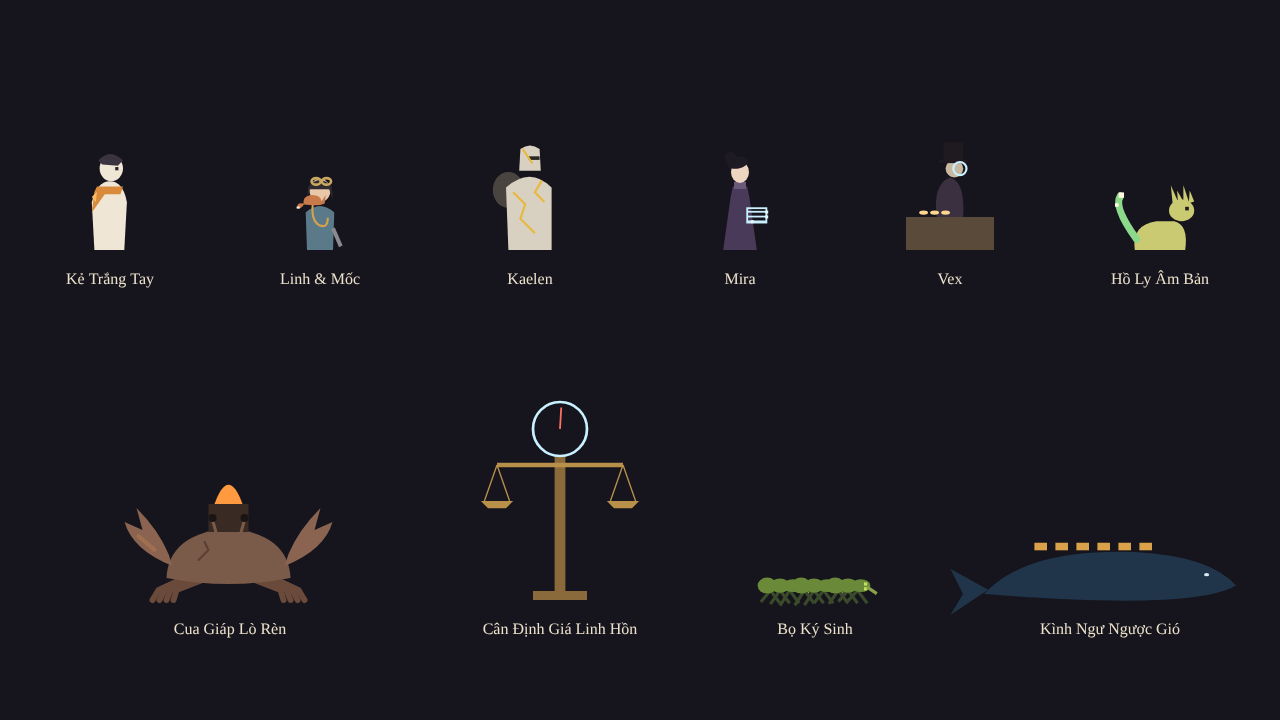
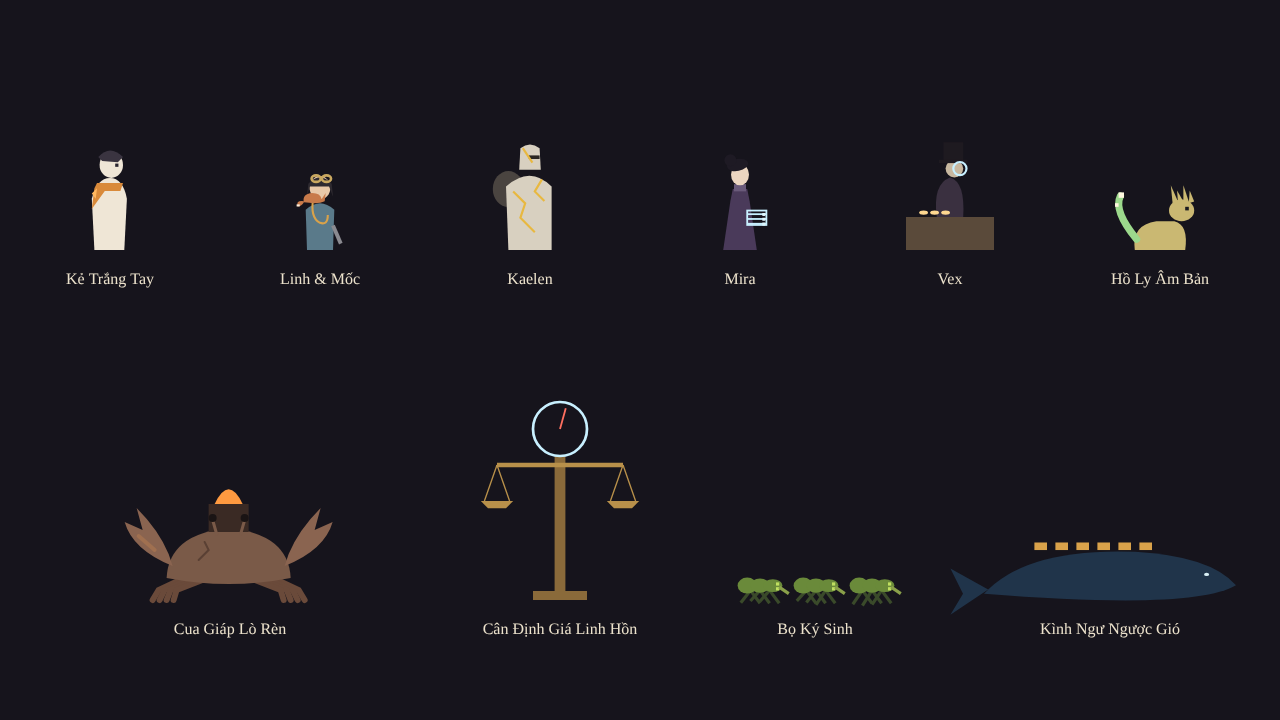
iteration 2: added đường ống sprite Aseprite
Đặc tả sprite đợt 1, bảng màu trong.gpl, pixelmap.lua (bản vẽ chữ → .aseprite), export.ps1 (PNG/JSON → sprites.js), bộ nạp sprite trong game với dự phòng vẽ bằng code, prompt cho Claude Code trên máy MSI.

Brief: design/game-brief.md

Claude-Session: https://claude.ai/code/session_016dqgZy18oADqWdvzqymVbA

diff --git a/prototypes/trong/index.html b/prototypes/trong/index.html
@@ -17,6 +17,7 @@
 <canvas id="game"></canvas>
 <script src="config.js"></script>
 <script src="story.js"></script>
+<script src="assets/sprites/sprites.js"></script>
 <script>
 'use strict';
 // Trong · Hồi 1 · Kẻ Trắng Tay. Đọc HANDOVER_STORY_V2.md: mọi chữ và bản đồ ở story.js,
@@ -83,6 +84,38 @@ function panel(x, y, w, h, a = 0.86) {
   ctx.fillStyle = `rgba(14,12,20,${a})`; ctx.fillRect(x, y, w, h);
   ctx.strokeStyle = 'rgba(240,226,192,0.35)'; ctx.lineWidth = 1.5; ctx.strokeRect(x, y, w, h);
 }
+
+// ---- Sprite vẽ bằng Aseprite -----------------------------------------------------------
+// assets/sprites/sprites.js (sinh bởi art/export.ps1) khai báo window.SPRITES[id] = JSON của
+// Aseprite; ảnh là assets/sprites/<id>.png. Có sprite thì vẽ sprite (pixel, phóng sprite_scale,
+// neo giữa đáy, quay phải); chưa có thì các hàm draw* bên dưới vẽ bằng code như cũ.
+const SPR = {};
+for (const id in (window.SPRITES || {})) {
+  const img = new Image();
+  img.onerror = () => console.warn('Không đọc được sprite', id);
+  img.src = `assets/sprites/${id}.png`;
+  SPR[id] = { img, data: window.SPRITES[id] };
+}
+function sprReady(id) { const s = SPR[id]; return !!s && s.img.complete && s.img.naturalWidth > 0 && !!s.data && Array.isArray(s.data.frames); }
+function sprFrame(id, tag, t) {
+  const frames = SPR[id].data.frames, tags = (SPR[id].data.meta && SPR[id].data.meta.frameTags) || [];
+  const tg = tags.find(x => x.name === tag) || tags.find(x => x.name === 'idle') || tags[0] || { from: 0, to: frames.length - 1 };
+  let total = 0;
+  for (let i = tg.from; i <= tg.to; i++) total += frames[i].duration || 100;
+  let ms = ((t * 1000) % total + total) % total;
+  for (let i = tg.from; i <= tg.to; i++) { ms -= frames[i].duration || 100; if (ms < 0) return frames[i]; }
+  return frames[tg.to];
+}
+function drawSprite(id, tag, t, x, y, facing = 1, extra = 1) {
+  if (!sprReady(id)) return false;
+  const s = tune.sprite_scale * Math.max(1, Math.round(extra)), fr = sprFrame(id, tag, t).frame; // chỉ phóng nguyên lần: điểm ảnh luôn vuông
+  ctx.save(); ctx.imageSmoothingEnabled = false;
+  ctx.translate(Math.round(x / s) * s, Math.round(y / s) * s); ctx.scale(facing < 0 ? -1 : 1, 1);
+  ctx.drawImage(SPR[id].img, fr.x, fr.y, fr.w, fr.h, -Math.round(fr.w / 2) * s, -fr.h * s, fr.w * s, fr.h * s);
+  ctx.restore();
+  return true;
+}
+function bodyTag() { return state && state.moving ? 'walk' : 'idle'; }
 
 // ---- Input ------------------------------------------------------------------------------
 const down = new Set(), hit = new Set();
@@ -391,6 +424,7 @@ function fieldStep(dt) {
   let v = 0;
   if (down.has('ArrowLeft') || down.has('KeyA')) v -= tune.walk_speed;
   if (down.has('ArrowRight') || down.has('KeyD')) v += tune.walk_speed;
+  state.moving = !!v && state.x > 60 && state.x < maxX();
   if (v) {
     state.facing = v > 0 ? 1 : -1;
     state.x = clamp(state.x + v * dt, 60, maxX());
@@ -798,6 +832,7 @@ function drawWhaleSign(x, y) { ctx.strokeStyle = '#c9a860'; ctx.lineWidth = 3; c
 
 // ---- Nhân vật: mỗi người một dáng riêng, không emoji, không hình tròn trơn ----
 function drawHero(x, y, s, f, t) { // Kẻ Trắng Tay: áo khoác bạc màu, mảnh hổ phách bám vai, khăn quàng
+  if (drawSprite('hero', bodyTag(), state.t, x, y, f, s)) return;
   ctx.save(); ctx.translate(x, y); ctx.scale(f * s, s);
   const bob = Math.sin(t * 9) * 1.5;
   glow('#fff0d8', 18); ctx.fillStyle = '#efe6d6';
@@ -819,6 +854,7 @@ function drawMoc(x, y, s, f, t) { // Mốc: cáo nhỏ của Linh, cuộn tròn 
   ctx.restore();
 }
 function drawLinh(x, y, s, f, t) { // Linh: thấp, kính bảo hộ trên trán, ống nghe đồng, cờ-lê, Mốc trên vai
+  if (drawSprite('linh', bodyTag(), state.t + 0.3, x, y, f, s)) return; // sprite đã vẽ Mốc trên vai
   ctx.save(); ctx.translate(x, y); ctx.scale(f * s, s);
   const bob = Math.sin(t * 9 + 1) * 1.3;
   ctx.fillStyle = '#5a7a8a'; // áo thợ
@@ -834,6 +870,7 @@ function drawLinh(x, y, s, f, t) { // Linh: thấp, kính bảo hộ trên trán
   drawMoc(x - 6 * f * s, y - 36 * s + Math.sin(t * 9 + 1) * 1.3, 0.8 * s, f, t);
 }
 function drawKael(x, y, s, f, t) { // Kaelen: to lớn, giáp gốm vết nứt hàn vàng, nồi súp trên lưng
+  if (drawSprite('kael', bodyTag(), state.t + 0.6, x, y, f, s)) return;
   ctx.save(); ctx.translate(x, y); ctx.scale(f * s, s);
   const bob = Math.sin(t * 7 + 2) * 1;
   ctx.fillStyle = '#4a4440'; ctx.beginPath(); ctx.ellipse(-18, -50 + bob, 13, 15, 0, 0, Math.PI * 2); ctx.fill(); // nồi trên lưng
@@ -848,6 +885,7 @@ function drawKael(x, y, s, f, t) { // Kaelen: to lớn, giáp gốm vết nứt 
   ctx.restore();
 }
 function drawMira(x, y, s, f, t) { // Mira: cao, áo dài cổ cao, búi tóc, bàn tính pha lê
+  if (drawSprite('mira', bodyTag(), state.t + 0.9, x, y, f, s)) return;
   ctx.save(); ctx.translate(x, y); ctx.scale(f * s, s);
   const bob = Math.sin(t * 9 + 3) * 1.2;
   ctx.fillStyle = '#4a3a5a';
@@ -963,6 +1001,7 @@ function drawParty(cam) {
 // ---- Gương mặt hội thoại ----
 const FACE = { me: '#efe6d6', linh: '#e8c8a8', kael: '#d8d0c0', mira: '#ecd6c0', vex: '#c8b8a0', fox: '#b8a0d0', crab: '#7a5a48', scale: '#b8904a', bug: '#6a8a3a' };
 function drawFace(who, f, x, y, r) {
+  if (drawSprite(who + '_face', f === 'speak' ? 'neutral' : f, 0, x, y + 48, 1)) return true; // chân dung 48×48, phóng ×2
   if (!FACE[who]) return false;
   ctx.save(); ctx.translate(x, y);
   glow(FACE[who], who === 'me' ? 14 : 6); ctx.fillStyle = FACE[who];
@@ -1222,6 +1261,7 @@ const scenes = {
       state.cold += (state.coldTarget - state.cold) * Math.min(1, dt);
       if (state.doublePulse) { const p = (state.t * tune.heartbeat_bpm / 60) % 1, pp = ((state.t - dt) * tune.heartbeat_bpm / 60) % 1; if (p < pp && state.mode === 'field') sfx.beat(); }
       walklineStep(dt);
+      if (state.mode !== 'field') state.moving = false;
       if (state.mode === 'field') fieldStep(dt);
       else if (state.mode === 'dialog') dialogStep(dt);
       else if (state.mode === 'fight') fightStep(dt);

diff --git a/prototypes/trong/config.js b/prototypes/trong/config.js
@@ -75,4 +75,5 @@ window.CONFIG = {
   line_time: { value: 5, min: 2, max: 10, step: 0.5 },             // giây: dòng chữ khi đi
   text_speed: { value: 42, min: 12, max: 120, step: 2 },           // chữ/giây
   heartbeat_bpm: { value: 54, min: 30, max: 100, step: 1 },        // nhịp Lõi Nhịp Tim
+  sprite_scale: { value: 2, min: 1, max: 4, step: 1 },             // điểm ảnh Aseprite → màn hình (640×360 ×2)
 };

diff --git a/prototypes/trong/assets/sprites/sprites.js b/prototypes/trong/assets/sprites/sprites.js
@@ -1,0 +1,3 @@
+// PROTOTYPE - NOT FOR PRODUCTION
+// Sinh tu dong boi art/export.ps1 tu assets/sprites/*.aseprite. Chua co sprite nao: game ve bang code.
+window.SPRITES = window.SPRITES || {};

diff --git a/prototypes/trong/art/SPRITE_SPEC.md b/prototypes/trong/art/SPRITE_SPEC.md
@@ -1,0 +1,64 @@
+# Đặc tả sprite: Trong · Hồi 1 · Đợt 1 (4 nhân vật chính)
+
+> PROTOTYPE - NOT FOR PRODUCTION. Nguồn: `prototypes/trong/brief.md` (Look), `HANDOVER_STORY_V2.md` (nhân vật).
+
+## 1. Khung chung
+
+| Mục | Quy định |
+|---|---|
+| Độ phân giải nghệ thuật | **640×360**, game phóng **×2** lên 1280×720 (`sprite_scale` trong `config.js`) |
+| Một điểm ảnh | luôn là 2×2 trên màn hình; game làm tròn vị trí theo bội 2, không bao giờ nằm lệch nửa điểm |
+| Khử răng cưa | **Không.** Không dùng màu trung gian để làm mềm cạnh |
+| Bảng màu | chỉ dùng `art/trong.gpl` (27 màu). Thiếu màu thì đề xuất thêm vào bảng, không tự pha |
+| Viền | viền 1 điểm ảnh màu `k` ở mép ngoài; mép phía có ánh sáng có thể thay viền bằng màu bóng (sel-out) |
+| Ánh sáng | từ **trên xuống, hơi chếch trước mặt**: Lõi Nhịp Tim treo giữa trời. Đổ bóng 2 tông: sáng, bóng; tối nhất là `K` |
+| Hướng | vẽ **quay mặt sang phải**. Game tự lật khi đi sang trái |
+| Mốc neo | **chân chạm hàng điểm ảnh cuối cùng**, nhân vật **canh giữa theo chiều ngang**. Game đặt điểm giữa đáy của khung vào vị trí đứng |
+| Độ sáng | Kẻ Trắng Tay là hình **sáng nhất** màn hình (áo `w`); ba người bạn tối hơn một bậc |
+| Cấm | emoji, chữ, logo; bắt chước nhân vật của game khác (Undertale hay bất kỳ game nào) |
+
+## 2. Danh sách sprite đợt 1
+
+| id (tên tệp) | Khung | Tag và số frame | Nhận diện (phải đọc được ở cỡ thật) |
+|---|---|---|---|
+| `hero` | 32×48 | `idle` 4 · `walk` 6 | Kẻ Trắng Tay: dáng mảnh, áo khoác dài bạc màu (`w`/`W`), tóc rối tối (`h`), khăn quàng hổ phách (`o`/`O`) bay sau lưng, một mảnh kén hổ phách (`y`) bám trên vai trái |
+| `linh` | 32×44 | `idle` 4 · `walk` 6 | Linh: thấp, áo thợ xanh xám (`b`/`B`), kính bảo hộ đồng trên trán (`g`), ống nghe đồng vắt cổ (`g`/`G`), cờ-lê thép (`m`) bên hông; **chú cáo Mốc** (`f`/`F`) cuộn trên vai, đuôi buông xuống |
+| `kael` | 48×56 | `idle` 4 · `walk` 6 | Kaelen: to lớn, giáp gốm trắng ngà (`c`/`C`) chằng chịt **vết nứt hàn vàng** (`u`, nét gãy khúc, ít nhất 3 vết), mũ giáp kín có khe mắt, **nồi súp** (`p`) đeo trên lưng |
+| `mira` | 32×52 | `idle` 4 · `walk` 6 | Mira: cao, áo dài cổ cao tím (`v`/`V`), tóc đen búi cao (`n`), **bàn tính pha lê** (`x`) cầm trước người, dáng thẳng, cằm hơi ngẩng |
+| `hero_face` | 48×48 | `neutral` `happy` `sad` `think` `awe` `afraid`, mỗi tag 1 frame | Chân dung hộp thoại, từ vai trở lên, quay ¾ sang phải. Mỗi nét mặt khác nhau ở **mắt và miệng** |
+| `linh_face` | 48×48 | như trên | có kính đồng trên trán; Mốc thò đầu ở vai |
+| `kael_face` | 48×48 | như trên | mũ giáp gốm; nét mặt đọc qua khe mắt và độ nghiêng mũ; vết hàn vàng chạy qua má |
+| `mira_face` | 48×48 | như trên | búi tóc, khuyên tai pha lê |
+
+**Thời lượng:** `idle` 180 ms/frame (thở nhẹ: vai lên xuống 1 điểm ảnh, khăn/đuôi/tóc lay), `walk` 100 ms/frame (chu kỳ 6 bước, đầu nảy 1 điểm ảnh). Chân dung không động.
+
+**Phân biệt bằng dáng, không chỉ bằng màu:** tô đen hết 4 nhân vật thì vẫn phải nhận ra ai là ai (Kaelen to vuông và có nồi; Mira cao thẳng; Linh thấp và có Mốc trên vai; Kẻ Trắng Tay mảnh, khăn bay).
+
+## 3. Cách vẽ (Claude trên máy MSI)
+
+Mỗi sprite là một tệp chữ `art/maps/<id>.txt`; `art/pixelmap.lua` biến nó thành `assets/sprites/<id>.aseprite`, rồi `art/export.ps1` xuất ra PNG, JSON và `sprites.js`. Sau đó người dùng có thể mở `.aseprite` để chỉnh tay; khi đã chỉnh tay thì chạy `export.ps1 -SkipMaps` để không ghi đè.
+
+```text
+# hero.txt: mỗi dòng lưới đúng 32 ký tự, mỗi frame đúng 48 dòng
+@legend k #1a1420
+@legend w #f4ecdc
+...
+@duration idle 180
+@duration walk 100
+@frame idle
+................................
+...(48 dòng)...
+@frame idle
+...
+@frame walk
+...
+```
+
+Khoá màu (`@legend`) lấy đúng ký tự và mã màu ở cột chú thích của `art/trong.gpl`; `.` là trong suốt.
+
+## 4. Kiểm tra trước khi giao
+
+1. `export.ps1` chạy không lỗi; có `assets/sprites/<id>.png`, `<id>.json` và `sprites.js` mới.
+2. Xuất thêm một ảnh xem trước phóng ×4 của mọi frame và **tự nhìn**: viền liền, không điểm lạc, chân không trôi giữa các frame đi, dáng 4 người khác nhau khi tô đen.
+3. Mở `prototypes/trong/index.html?scene=figures`: 4 nhân vật hiện bằng sprite, đứng trên cùng đường đáy với hình vẽ code của sinh vật.
+4. Ghi mỗi tệp vào `assets/provenance.yaml`: `origin: ai`, `tool: "aseprite + art/pixelmap.lua"`, `ships: true`, `placeholder: true` cho đến khi người dùng duyệt nét vẽ.

diff --git a/prototypes/trong/art/PROMPT_MSI.md b/prototypes/trong/art/PROMPT_MSI.md
@@ -1,0 +1,42 @@
+# Prompt cho Claude Code trên máy MSI: vẽ sprite đợt 1 bằng Aseprite
+
+> PROTOTYPE - NOT FOR PRODUCTION. Dán toàn bộ khối dưới đây vào Claude Code mở **trên máy MSI**, trong thư mục repo `Claude-Code-Game-Studios`, sau khi đã `git pull` nhánh `claude/awesome-fermi-b3iszg`.
+
+```text
+Bạn vẽ sprite pixel cho game "Trong" (prototypes/trong) bằng Aseprite cài trên máy này. Trả lời tôi bằng tiếng Việt, gọn.
+
+ĐỌC TRƯỚC (đừng đọc cả repo):
+- prototypes/trong/art/SPRITE_SPEC.md   ← quy định bắt buộc: khung, bảng màu, tag, neo, ánh sáng, cách kiểm tra
+- prototypes/trong/art/trong.gpl        ← 27 màu, cột chú thích là ký tự khoá
+- prototypes/trong/art/pixelmap.lua     ← biến art/maps/<id>.txt thành .aseprite
+- prototypes/trong/art/export.ps1       ← dựng + xuất PNG/JSON + sprites.js
+- prototypes/trong/brief.md, mục "Look and references"
+
+BƯỚC 0 · Kiểm tra máy, DỪNG nếu thiếu:
+- Tìm Aseprite: `aseprite --version`, hoặc C:\Program Files\Aseprite\Aseprite.exe, hoặc ...\Steam\steamapps\common\Aseprite\Aseprite.exe.
+- Không có Aseprite thì DỪNG và báo tôi. KHÔNG tự cài, không tải bản lậu: Aseprite là phần mềm trả phí.
+- Hỏi tôi trước mọi thao tác xoá file hay cài gói.
+
+BƯỚC 1 · Thử đường ống với một sprite nhỏ:
+- Viết art/maps/hero.txt chỉ với 1 frame `idle` để thử, chạy `.\art\export.ps1` trong thư mục prototypes/trong.
+- pixelmap.lua và export.ps1 được viết ở máy cloud KHÔNG có Aseprite, chưa chạy thử lần nào. Nếu lỗi API (newEmptyFrame, newCel, newTag, saveAs, cờ CLI), sửa hai tệp đó cho đúng phiên bản Aseprite trên máy, ghi lại đã sửa gì.
+
+BƯỚC 2 · Vẽ đợt 1 (đúng SPRITE_SPEC.md mục 2):
+- hero, linh, kael, mira: idle 4 frame + walk 6 frame.
+- hero_face, linh_face, kael_face, mira_face: 6 nét mặt (neutral happy sad think awe afraid), 48×48.
+- Vẽ bằng lưới ký tự trong art/maps/<id>.txt. Mỗi dòng lưới phải đúng chiều rộng khung, mỗi frame đúng chiều cao.
+- Làm từng nhân vật một: vẽ, xuất, XEM ảnh, sửa, rồi mới sang người kế.
+
+BƯỚC 3 · Tự nhìn và sửa (bắt buộc, không bỏ qua):
+- Xuất ảnh xem trước phóng ×4 của mọi frame (ví dụ `aseprite -b <id>.aseprite --scale 4 --sheet preview_<id>.png`), mở ra NHÌN.
+- Đạt khi: viền liền, không điểm lạc, chân không trôi giữa các frame walk, tô đen cả 4 người vẫn nhận ra từng người (Kaelen to vuông có nồi; Mira cao thẳng; Linh thấp có Mốc; Kẻ Trắng Tay mảnh, khăn bay), 6 nét mặt khác nhau rõ ở mắt và miệng.
+- Mở prototypes/trong/index.html?scene=figures bằng trình duyệt, chụp màn hình, xem 4 nhân vật đã là sprite và đứng đúng đường đáy.
+
+BƯỚC 4 · Ghi nguồn gốc và bàn giao:
+- Thêm mỗi tệp trong assets/sprites vào prototypes/trong/assets/provenance.yaml: origin: ai, tool: "aseprite + art/pixelmap.lua", ships: true, placeholder: true.
+- Không xoá ảnh preview_*.png vào repo: để chúng ở thư mục tạm.
+- Hỏi tôi trước khi commit. Khi tôi đồng ý: commit đúng các tệp đã đổi, thông điệp "art: sprite đợt 1 (4 nhân vật) bằng Aseprite", rồi push nhánh claude/awesome-fermi-b3iszg.
+- Báo lại: tệp nào mới/đổi, đã sửa gì ở pixelmap.lua/export.ps1, ảnh chụp scene=figures, và chỗ nào bạn chưa ưng ý.
+
+KHÔNG ĐƯỢC: dùng màu ngoài trong.gpl, khử răng cưa, chép nhân vật của game khác (kể cả Undertale), sửa index.html/story.js/config.js (game đã tự nạp sprite khi có).
+```

diff --git a/design/game-brief.md b/design/game-brief.md
@@ -7,6 +7,7 @@ Tài liệu cốt truyện: `prototypes/trong/HANDOVER_STORY_V2.md` (HANDOVER ST
 
 After play: bỏ phần đánh theo lượt, thiết kế lại cơ chế gameplay mới, khi mà tiến vào ột màn đấu boss thì boss sẽ đứng ở phía trên màn hình tung skill chúng ta phải né skill và đợi phản đòn. giống của undertale nhưng ta sẽ cải tiến thêm
 After play: Cốt truyện = File 2 thay thế Trong · Lượt đầu = Hồi 1 file 2 + né đòn
+After play: sử dụng aseprite trên máy tính để thiết kế · Ai vẽ = Claude trên máy MSI vẽ · Độ phân giải = 640×360, phóng ×2 · Đợt đầu = 4 nhân vật chính
 After play: Prompt vai trò: Story-to-Systems, Data-Driven, StoryStateManager cho các biến Bước 4, Event Bus, phản hồi vi mô kiểu Undertale, đề xuất cải tiến gameplay.
 
 **Pitch:** Bạn tỉnh dậy trong một cái kén hổ phách vỡ, trắng tay và mất trí nhớ, bên trong lòng một tinh cầu rỗng; mỗi sinh vật bạn tha hay giết, mỗi đồng xu bạn tiêu hay thanh tẩy, đều viết lại câu trả lời cho câu hỏi "cậu là ai".
@@ -24,6 +25,7 @@ After play: Prompt vai trò: Story-to-Systems, Data-Driven, StoryStateManager ch
 ## Look and references
 - Look: kỳ vĩ mà ấm, đời thường. 2D nhìn ngang nhiều lớp, vẽ tay phát sáng. Bầu trời là vỏ trong của tinh cầu: lục địa mọc ngược trên trời, ở giữa treo Lõi Nhịp Tim đập chậm. Thung Lũng Phế Liệu gỉ đồng và hổ phách; Chợ Nổi gỗ ấm trên lưng một cá voi xanh thẫm. Nhân vật chính sáng nhất màn hình. Dấu ấn riêng: Lõi Nhịp Tim đập theo nhịp; sau khi Linh nghe thấy nhịp thứ hai, màn hình khẽ đập đôi. Every figure drawn, no emoji, no plain circles.
 - References: Undertale (đấu né đòn trong khung, tha hay giết, phản hồi vi mô) — lấy tinh thần, không lấy menu, trái tim, nhân vật hay giao diện.
+- Pixel: hi-bit pixel vẽ bằng Aseprite, 640×360 phóng ×2, bảng màu `art/trong.gpl`, đặc tả `art/SPRITE_SPEC.md`; đợt 1 là 4 nhân vật chính, phần còn lại vẫn vẽ bằng code cho tới các đợt sau.
 - View: 2D · Camera: nhìn ngang theo nhân vật; màn né: boss ở trên cảnh, khung né ở dưới, cảnh thế giới vẫn thấy phía sau.
 
 ## First minute
@@ -52,6 +54,9 @@ Phút 3–5: Cua Giáp Lò Rèn nổi điên vì mảnh sắt gỉ, đè lên Li
 - [x] Vũng nước lưu game với dòng chữ theo giai đoạn và theo tha hoá; túi đồ với mô tả đổi theo lựa chọn; Thanh Tẩy đồng xu ký ức
 - [x] Ba bạn đồng hành Linh, Kaelen, Mira với câu thoại gieo hạt Hồi 1; Kịch bản 1 (Chợ Đen) và Kịch bản 2 (Lửa Trại) theo đúng lời handover
 - [x] Sinh vật: Hồ Ly Âm Bản, Cua Giáp Lò Rèn, Kình Ngư Ngược Gió, mỗi con một tương tác nhỏ; sổ xanh nợ của Linh trên giao diện
+
+- [x] Đường ống sprite Aseprite: bản vẽ chữ → .aseprite → PNG + JSON → sprites.js; game dùng sprite khi có, vẽ bằng code khi chưa
+- [ ] Sprite Aseprite cho Kẻ Trắng Tay, Linh & Mốc, Kaelen, Mira: đứng, đi, 6 nét mặt chân dung (vẽ trên máy MSI)
 
 ## Your systems
 - đấu boss né đòn và phản đòn · in the slice

diff --git a/prototypes/trong/brief.md b/prototypes/trong/brief.md
@@ -7,6 +7,7 @@ Tài liệu cốt truyện: `prototypes/trong/HANDOVER_STORY_V2.md` (HANDOVER ST
 
 After play: bỏ phần đánh theo lượt, thiết kế lại cơ chế gameplay mới, khi mà tiến vào ột màn đấu boss thì boss sẽ đứng ở phía trên màn hình tung skill chúng ta phải né skill và đợi phản đòn. giống của undertale nhưng ta sẽ cải tiến thêm
 After play: Cốt truyện = File 2 thay thế Trong · Lượt đầu = Hồi 1 file 2 + né đòn
+After play: sử dụng aseprite trên máy tính để thiết kế · Ai vẽ = Claude trên máy MSI vẽ · Độ phân giải = 640×360, phóng ×2 · Đợt đầu = 4 nhân vật chính
 After play: Prompt vai trò: Story-to-Systems, Data-Driven, StoryStateManager cho các biến Bước 4, Event Bus, phản hồi vi mô kiểu Undertale, đề xuất cải tiến gameplay.
 
 **Pitch:** Bạn tỉnh dậy trong một cái kén hổ phách vỡ, trắng tay và mất trí nhớ, bên trong lòng một tinh cầu rỗng; mỗi sinh vật bạn tha hay giết, mỗi đồng xu bạn tiêu hay thanh tẩy, đều viết lại câu trả lời cho câu hỏi "cậu là ai".
@@ -24,6 +25,7 @@ After play: Prompt vai trò: Story-to-Systems, Data-Driven, StoryStateManager ch
 ## Look and references
 - Look: kỳ vĩ mà ấm, đời thường. 2D nhìn ngang nhiều lớp, vẽ tay phát sáng. Bầu trời là vỏ trong của tinh cầu: lục địa mọc ngược trên trời, ở giữa treo Lõi Nhịp Tim đập chậm. Thung Lũng Phế Liệu gỉ đồng và hổ phách; Chợ Nổi gỗ ấm trên lưng một cá voi xanh thẫm. Nhân vật chính sáng nhất màn hình. Dấu ấn riêng: Lõi Nhịp Tim đập theo nhịp; sau khi Linh nghe thấy nhịp thứ hai, màn hình khẽ đập đôi. Every figure drawn, no emoji, no plain circles.
 - References: Undertale (đấu né đòn trong khung, tha hay giết, phản hồi vi mô) — lấy tinh thần, không lấy menu, trái tim, nhân vật hay giao diện.
+- Pixel: hi-bit pixel vẽ bằng Aseprite, 640×360 phóng ×2, bảng màu `art/trong.gpl`, đặc tả `art/SPRITE_SPEC.md`; đợt 1 là 4 nhân vật chính, phần còn lại vẫn vẽ bằng code cho tới các đợt sau.
 - View: 2D · Camera: nhìn ngang theo nhân vật; màn né: boss ở trên cảnh, khung né ở dưới, cảnh thế giới vẫn thấy phía sau.
 
 ## First minute
@@ -52,6 +54,9 @@ Phút 3–5: Cua Giáp Lò Rèn nổi điên vì mảnh sắt gỉ, đè lên Li
 - [x] Vũng nước lưu game với dòng chữ theo giai đoạn và theo tha hoá; túi đồ với mô tả đổi theo lựa chọn; Thanh Tẩy đồng xu ký ức
 - [x] Ba bạn đồng hành Linh, Kaelen, Mira với câu thoại gieo hạt Hồi 1; Kịch bản 1 (Chợ Đen) và Kịch bản 2 (Lửa Trại) theo đúng lời handover
 - [x] Sinh vật: Hồ Ly Âm Bản, Cua Giáp Lò Rèn, Kình Ngư Ngược Gió, mỗi con một tương tác nhỏ; sổ xanh nợ của Linh trên giao diện
+
+- [x] Đường ống sprite Aseprite: bản vẽ chữ → .aseprite → PNG + JSON → sprites.js; game dùng sprite khi có, vẽ bằng code khi chưa
+- [ ] Sprite Aseprite cho Kẻ Trắng Tay, Linh & Mốc, Kaelen, Mira: đứng, đi, 6 nét mặt chân dung (vẽ trên máy MSI)
 
 ## Your systems
 - đấu boss né đòn và phản đòn · in the slice
